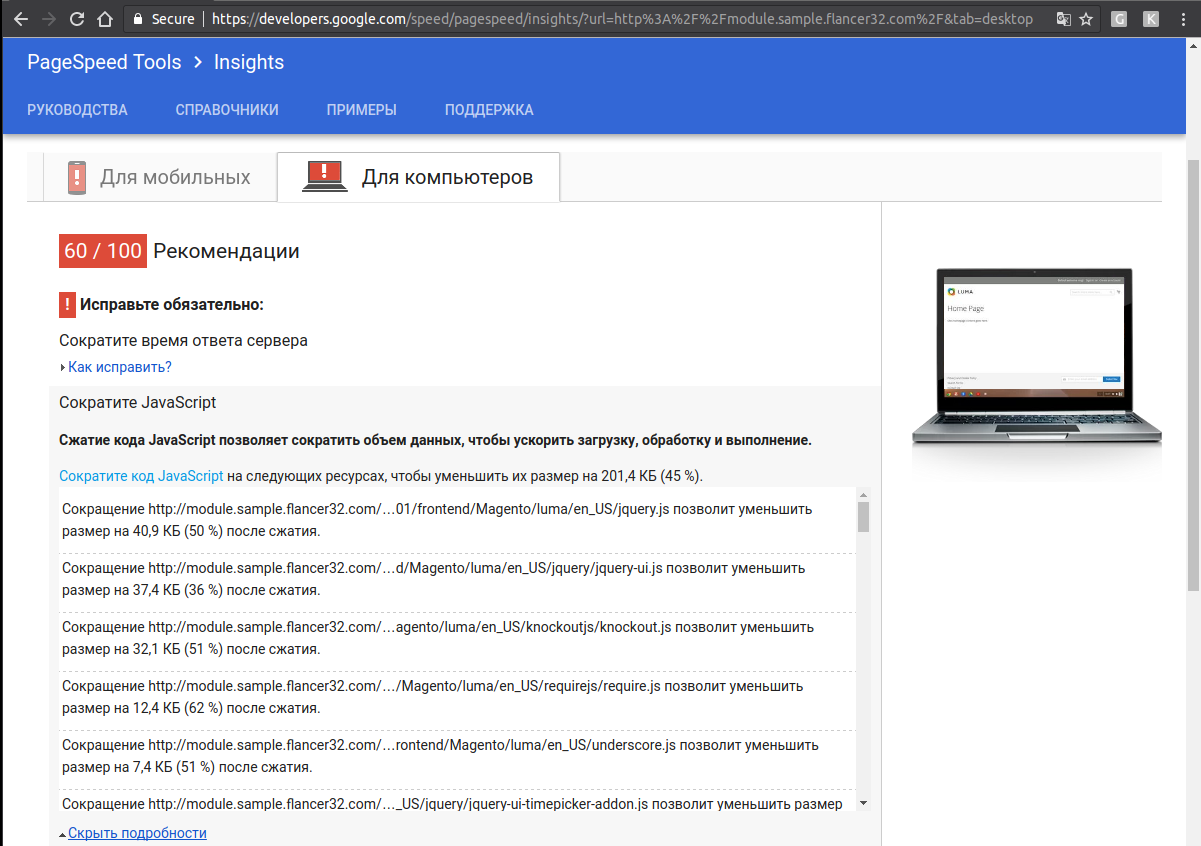
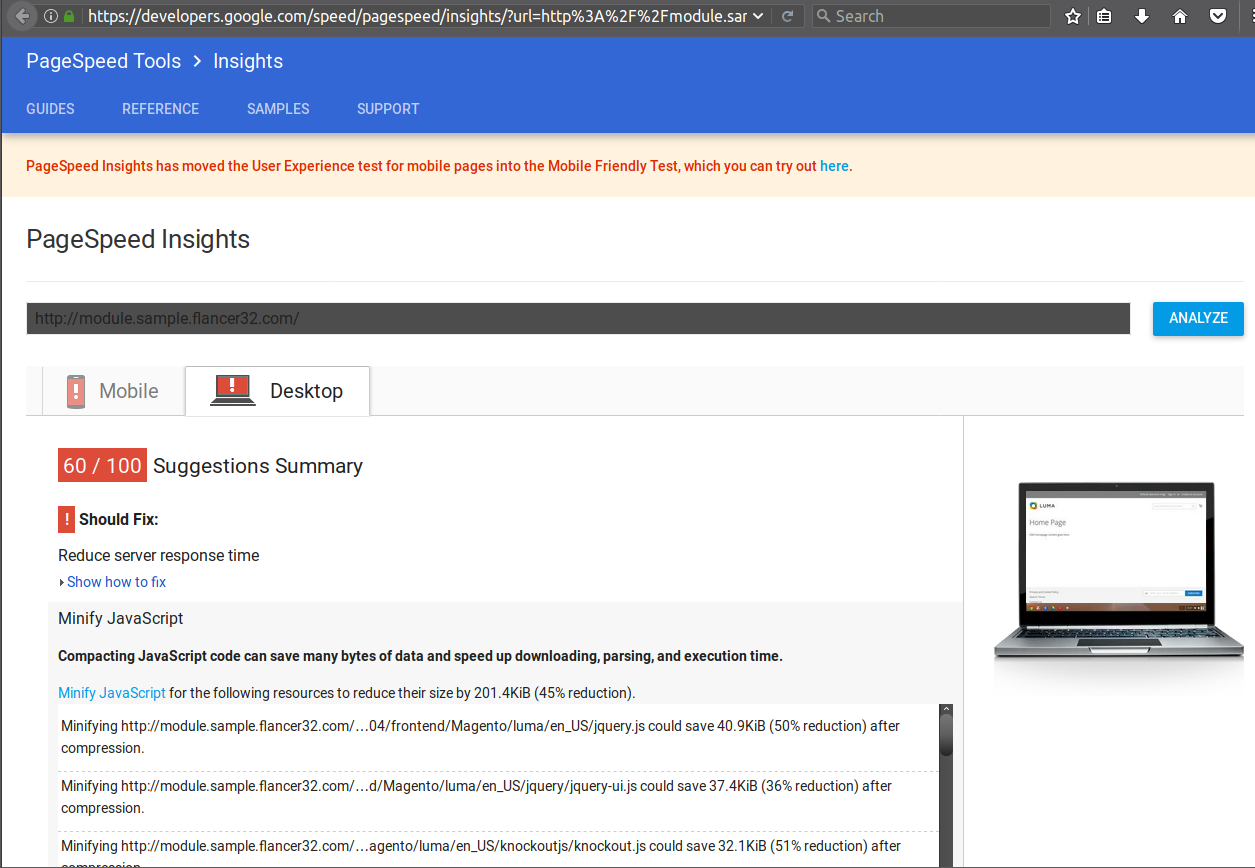
docs

Changed region(s): [[0.0, 0.0, 1.0, 1.0], [0.7086, 0.5839, 0.7394, 0.6454]]

diff --git a/README.md b/README.md
@@ -10,13 +10,28 @@ This extension just minifies all JS and CSS files in `./pub/static/**` folder us
 [matthiasmullie/minify](https://github.com/matthiasmullie/minify) module. All minified files stay on the places 
 of the original files. All original files are backed up with extension `*.not_minified`.
 
-Before minification:
+
+
+### Before minification
+
+Google PageSpeed Insights:
 
 ![](./docs/img/before.png)
 
-After minification:
+Firefox data:
+
+![](./docs/img/ff_before.png)
+
+
+### After minification
+
+Google PageSpeed Insights:
 
 ![](./docs/img/after.png)
+
+Firefox data:
+
+![](./docs/img/ff_after.png)
 
 CAUTION: JS and CSS files in `./pub/static/**` folder are links to the files in `./vendor/**` folder, 
 these files will be minified in result. Use this module in case you can re-deploy original files.
@@ -36,9 +51,9 @@ then run minification:
 
     $ ./bin/magento fl32:minify:make
     ...
-    File '/home/alex/work/prj/sample_mage2_module/work/pub/static/frontend/Magento/luma/en_US/tiny_mce/themes/simple/skins/o2k7/ui.css' is minified.
-    Total 2263 JS and 225 CSS files are found in './pub/static/' folder.
-    Total 1985 JS and 212 CSS files are minified.
+    File '/var/www/vhosts/sample_mage2_module/work/pub/static/frontend/Magento/luma/en_US/tiny_mce/themes/simple/skins/o2k7/ui.css' is minified.
+    Total 2266 JS and 225 CSS files are found in './pub/static/' folder.
+    Total 2266 JS and 225 CSS files are minified.
     Don't forget reset permissions for the files.
 
 
@@ -46,9 +61,9 @@ To revert minification:
 
     $ ./bin/magento fl32:minify:revert
     ...
-    File '/home/alex/work/prj/sample_mage2_module/work/pub/static/frontend/Magento/luma/en_US/tiny_mce/themes/simple/skins/o2k7/ui.css' is reverted.
-    Total 2263 JS and 225 CSS files are found in './pub/static/' folder.
-    Total 2263 JS and 225 CSS files are reverted.
+    File '/var/www/vhosts/sample_mage2_module/work/pub/static/frontend/Magento/luma/en_US/tiny_mce/themes/simple/skins/o2k7/ui.css' is reverted.
+    Total 2266 JS and 225 CSS files are found in './pub/static/' folder.
+    Total 2266 JS and 225 CSS files are reverted.
     Don't forget reset permissions for the files.
 
 
